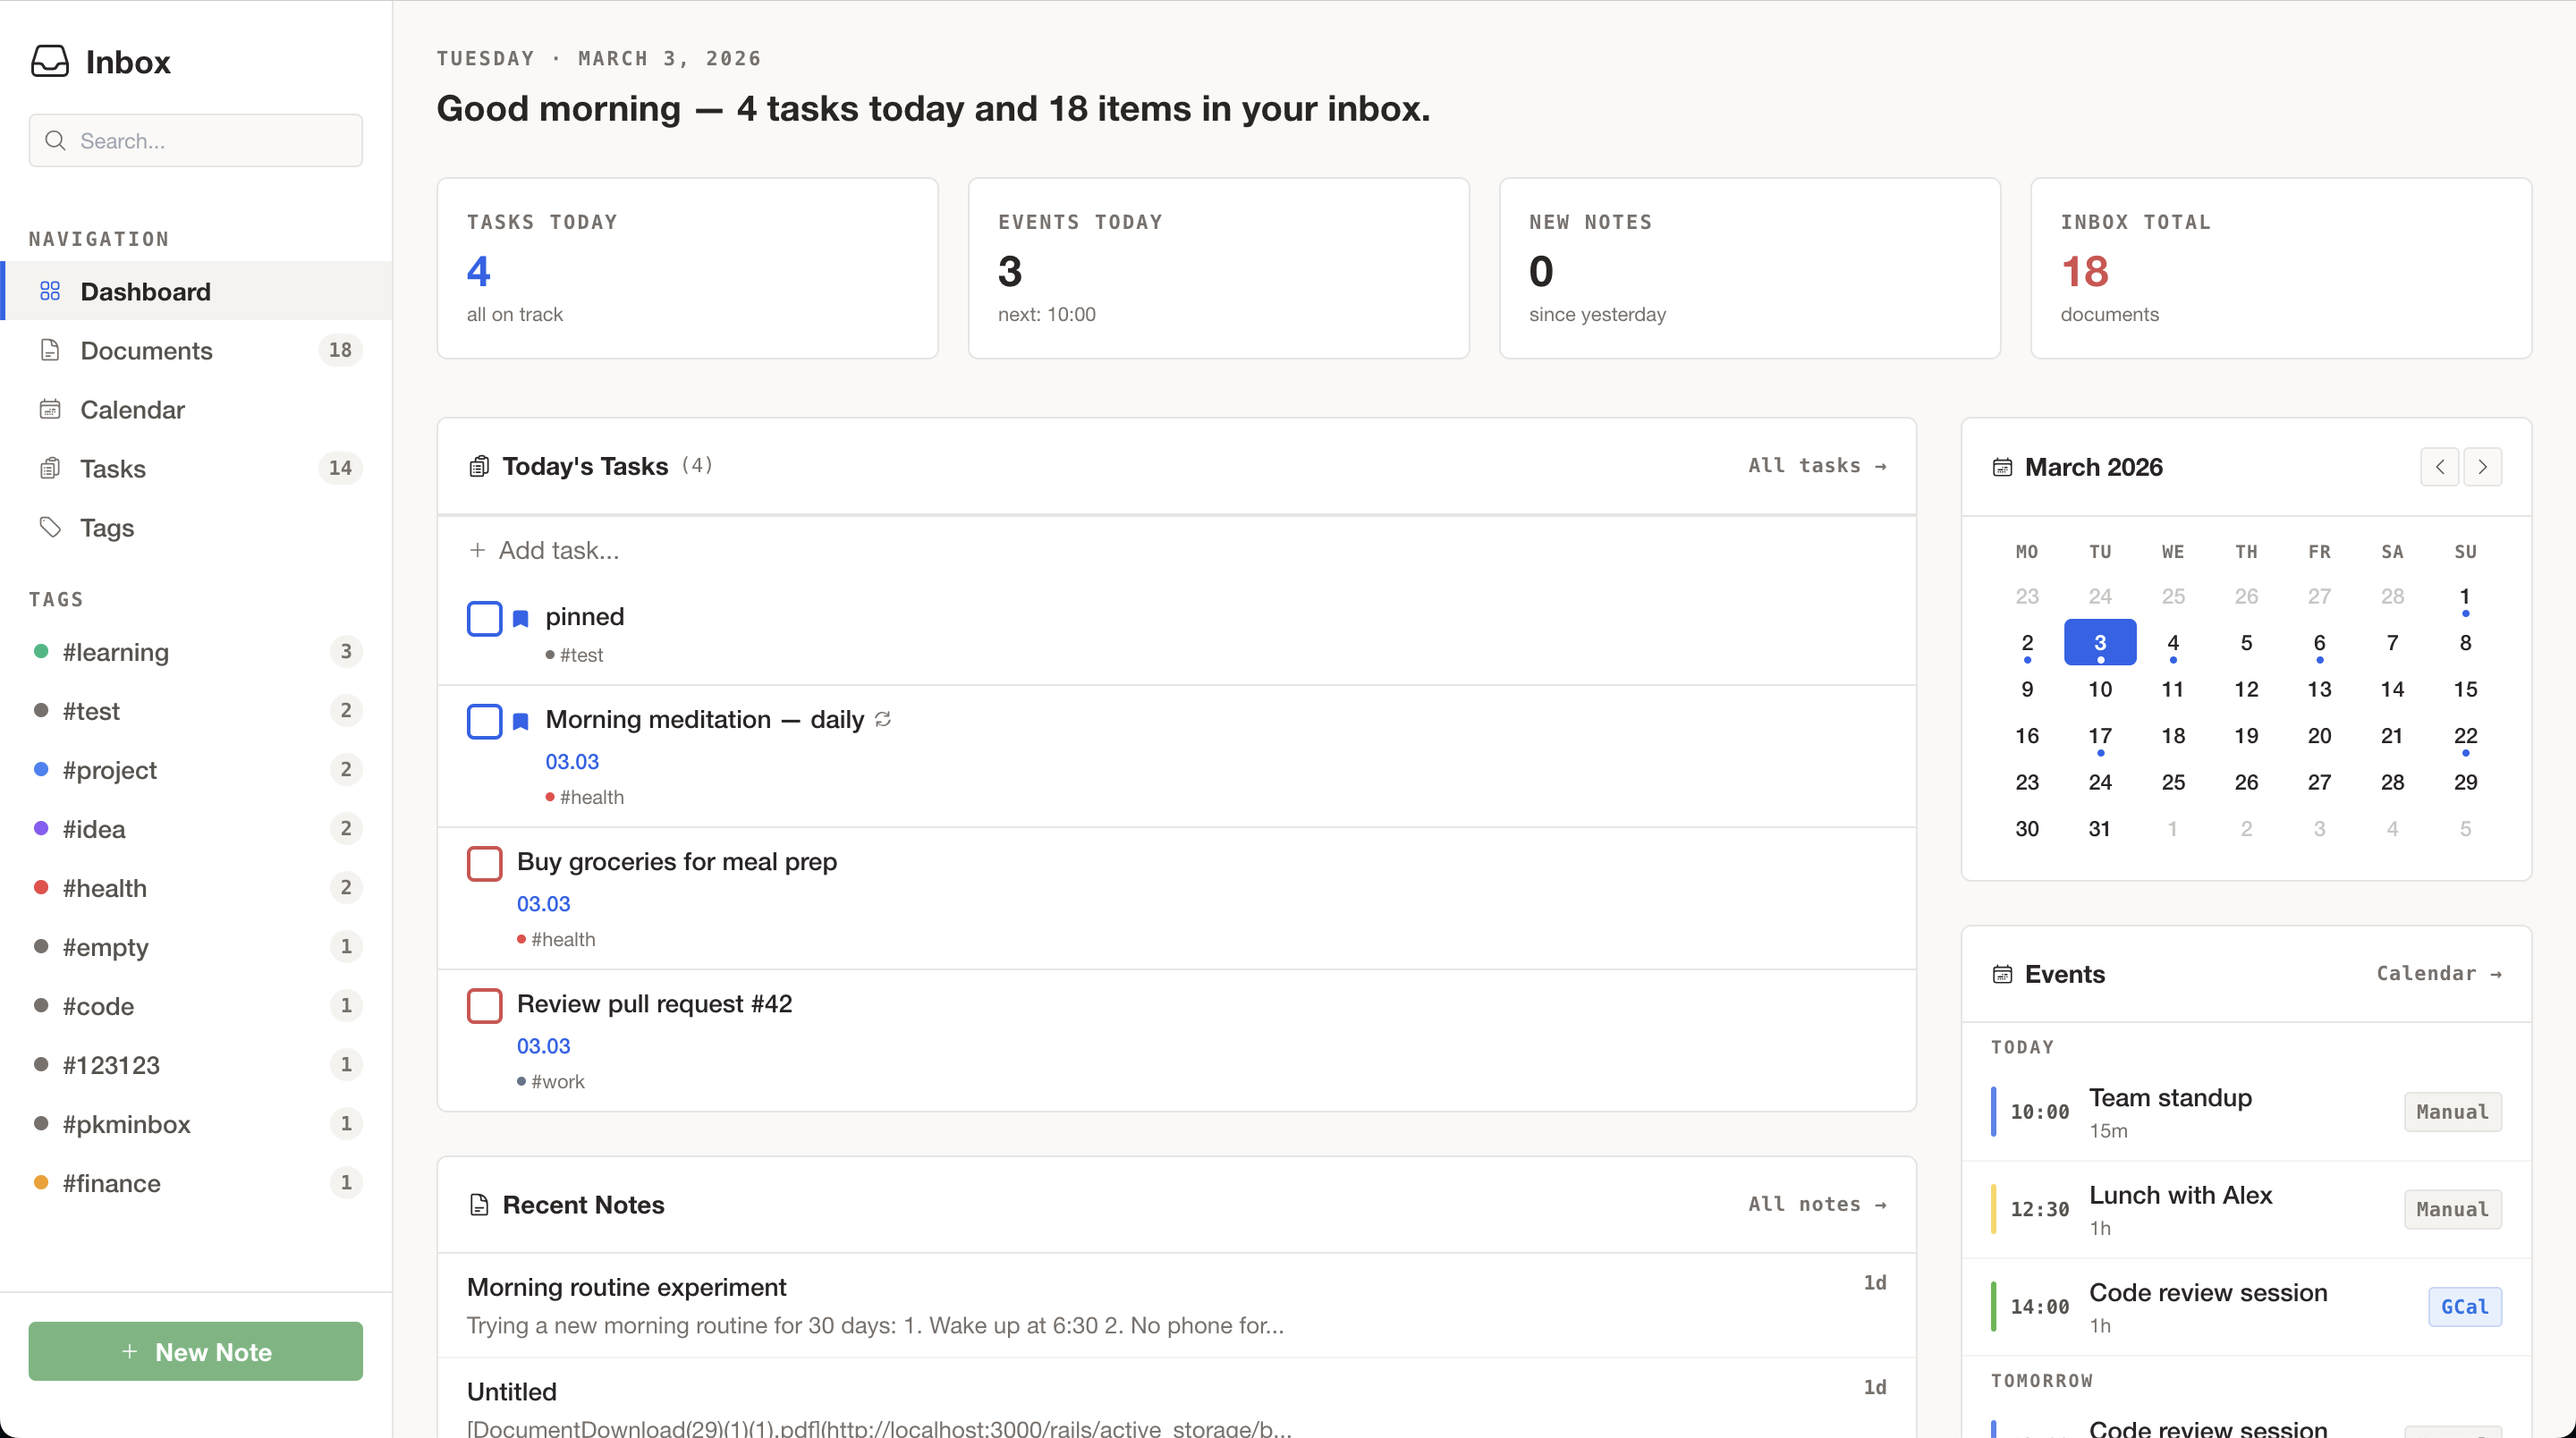
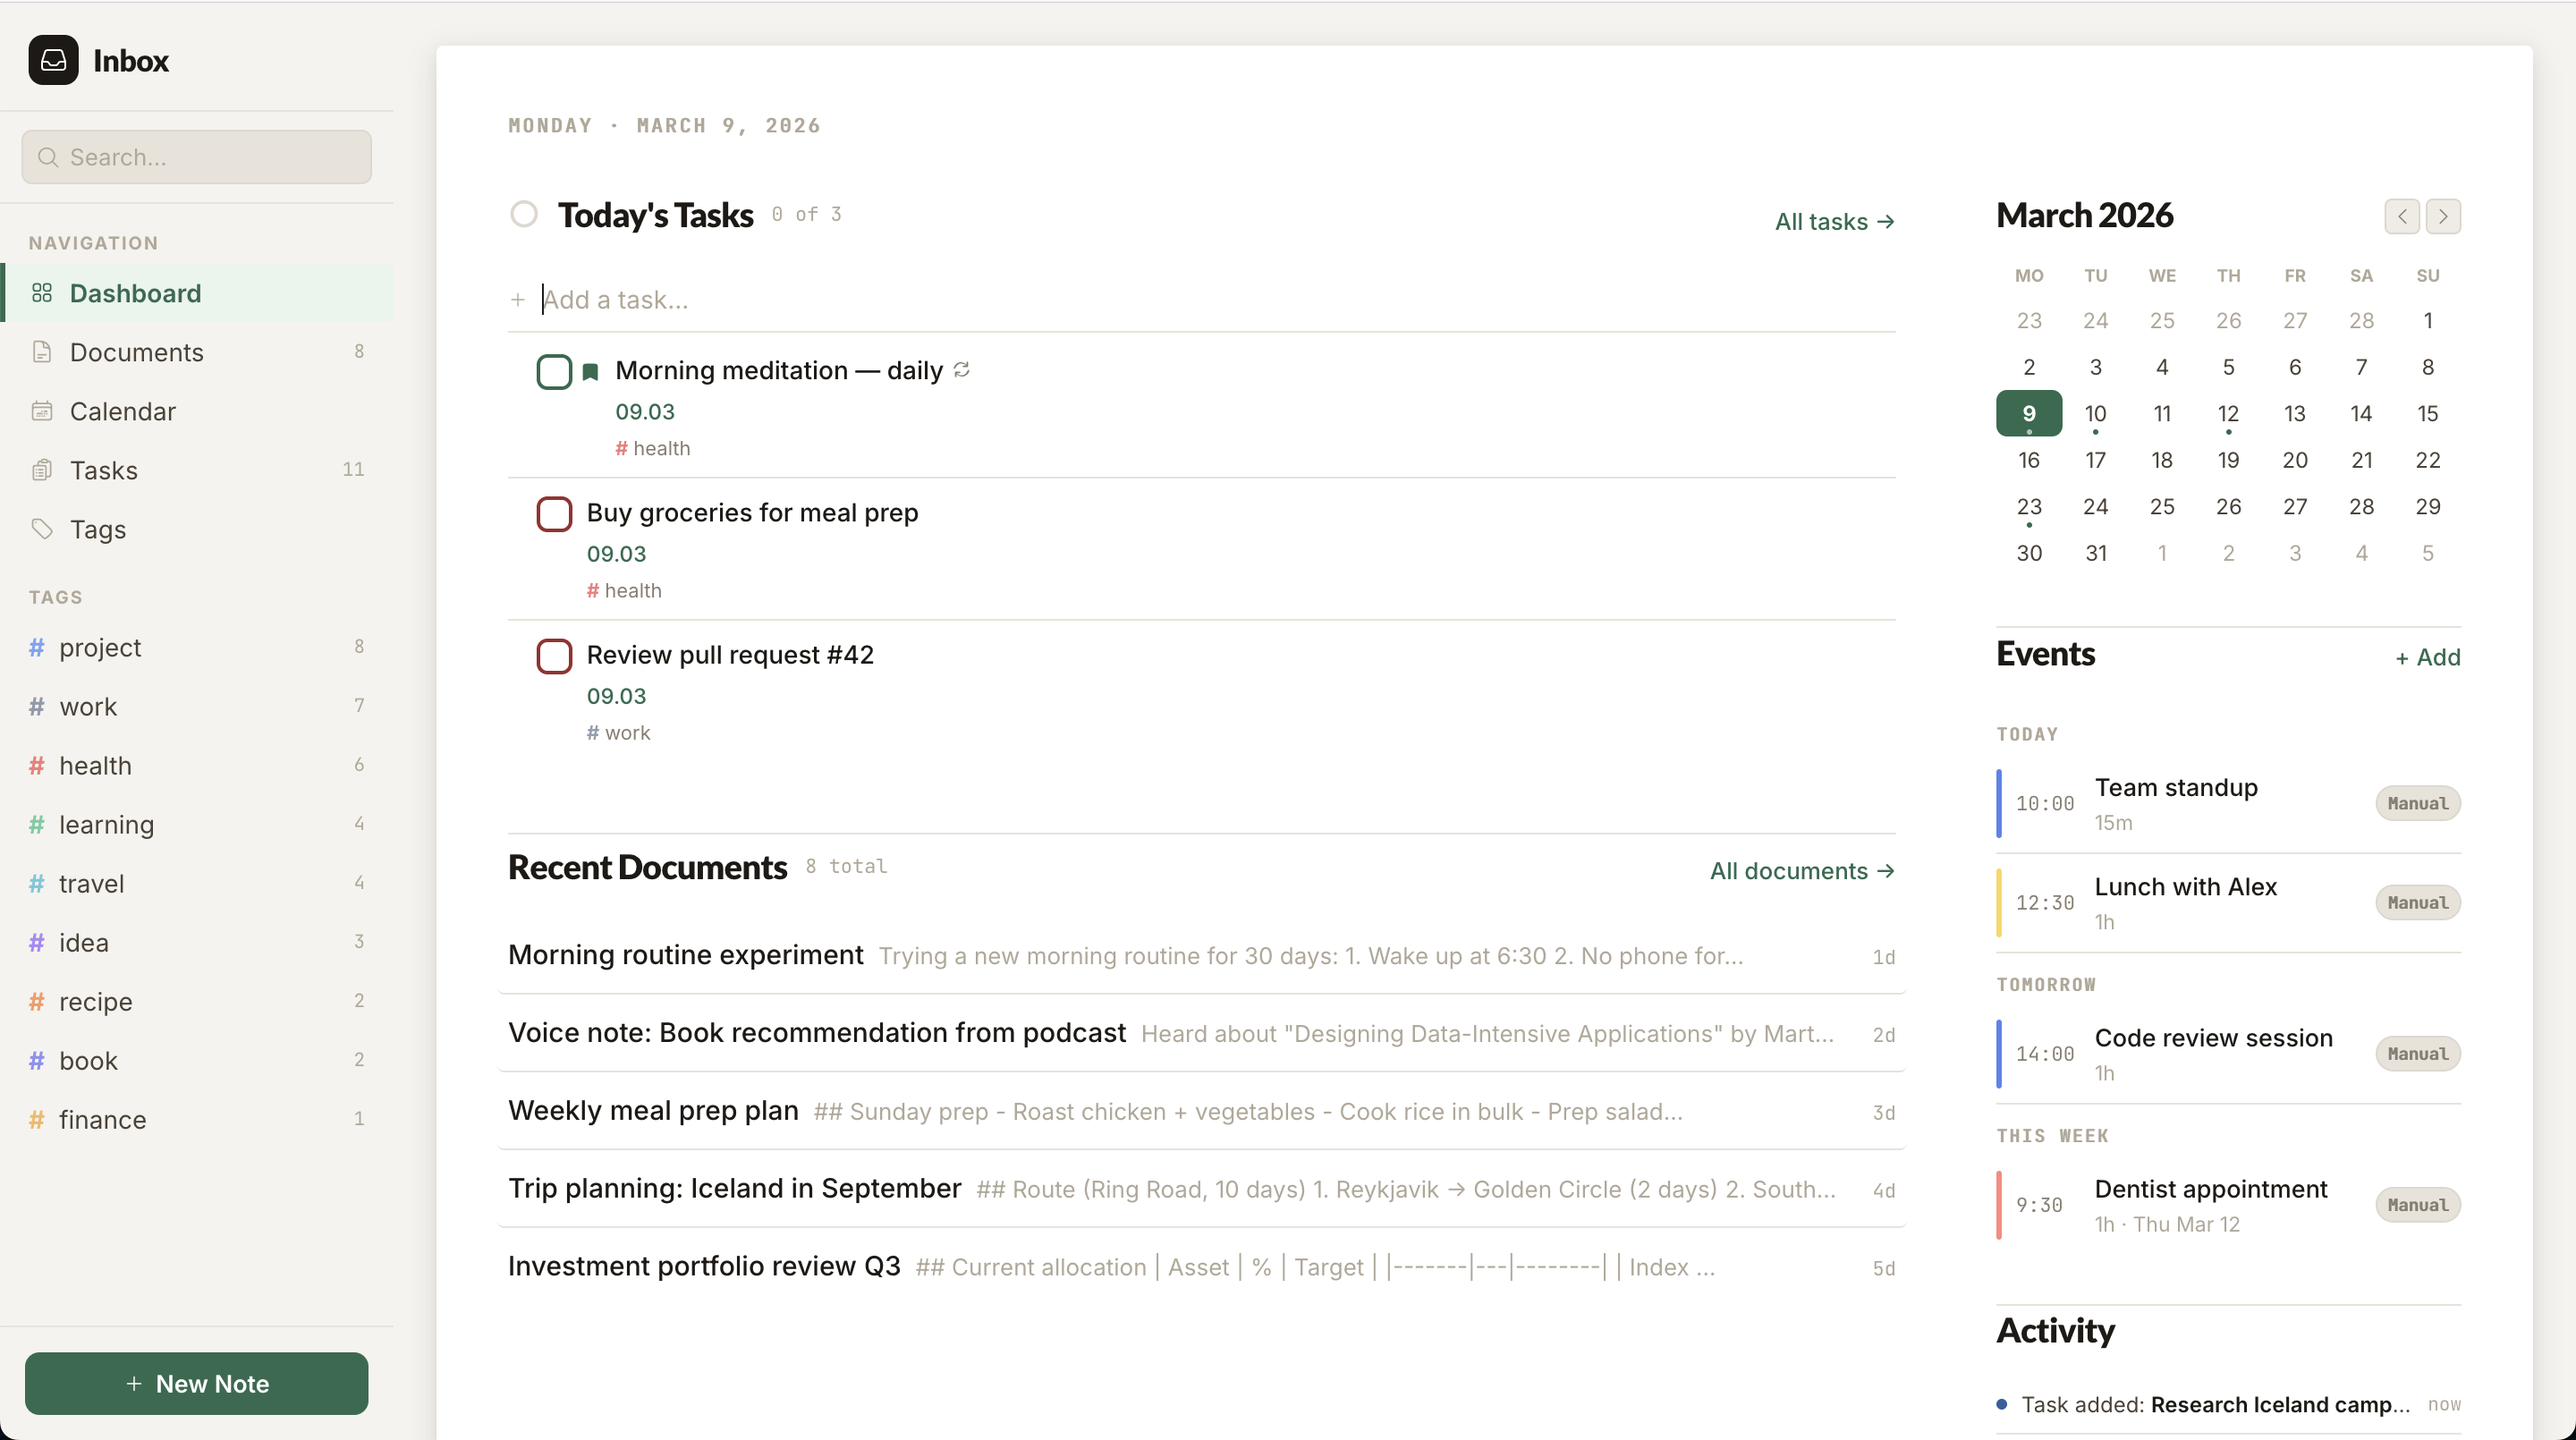
Upd screens

diff --git a/db/seeds.rb b/db/seeds.rb
@@ -98,36 +98,39 @@ documents_data = [
 
 documents_data.each do |attrs|
   tag_names = attrs.delete(:tags)
-  doc = Document.find_or_create_by!(title: attrs[:title]) do |d|
-    d.assign_attributes(attrs.except(:tags))
-  end
+  content = attrs.delete(:content)
+  doc = Document.find_or_initialize_by(title: attrs[:title])
+  doc.assign_attributes(attrs)
+  doc.save!
+
   tag_names&.each do |name|
     doc.tags << tags[name] unless doc.tags.include?(tags[name])
   end
 
-  # Create a text block with the content
-  if doc.blocks.empty? && doc.content.present?
-    doc.blocks.create!(
-      block_type: "text",
-      content: { "text" => doc.content }.to_json,
-      position: 0
-    )
+  # Create or update text block with the content
+  if content.present?
+    text_block = doc.blocks.find_or_initialize_by(block_type: "text")
+    text_block.update!(content: { "text" => content }.to_json, position: 0)
   end
 end
 puts "  Documents: #{Document.count}"
 
 # ── Tasks ───────────────────────────────────────────────────────────────────
 tasks_data = [
-  { title: "Buy groceries for meal prep",     due_date: Date.current,             priority: "high",   tags: %w[health] },
-  { title: "Review pull request #42",         due_date: Date.current,             priority: "high",   tags: %w[work] },
+  { title: "Buy groceries for meal prep",     due_date: Date.current,             priority: "high",   tags: %w[health],
+    description: "- [ ] Chicken thighs (1 kg)\n- [ ] Sweet potatoes\n- [ ] Broccoli, spinach\n- [ ] Greek yogurt\n- [x] Rolled oats\n- [x] Mixed berries" },
+  { title: "Review pull request #42",         due_date: Date.current,             priority: "high",   tags: %w[work],
+    description: "Check the **auth refactor** branch.\n\n- [ ] Code review\n- [ ] Run tests\n- [ ] Approve or request changes" },
   { title: "Book dentist appointment",        due_date: 3.days.from_now.to_date,  priority: "mid",    tags: %w[health] },
-  { title: "Read DDIA chapter 5",             due_date: 5.days.from_now.to_date,  priority: "mid",    tags: %w[book learning] },
+  { title: "Read DDIA chapter 5",             due_date: 5.days.from_now.to_date,  priority: "mid",    tags: %w[book learning],
+    description: "Chapter 5: *Replication*. Focus on leader-based replication and conflict resolution." },
   { title: "Backup Raspberry Pi SD card",     due_date: 7.days.from_now.to_date,  priority: "low",    tags: %w[project] },
   { title: "Send birthday card to Mom",       due_date: Date.current + 10,        priority: "high",   tags: [] },
   { title: "Research Iceland campervan rentals", due_date: 14.days.from_now.to_date, priority: "mid", tags: %w[travel] },
   { title: "Update resume",                   due_date: nil,                       priority: "low",    tags: %w[work] },
   { title: "Try sourdough bread recipe",      due_date: nil,                       priority: "low",    tags: %w[recipe idea] },
-  { title: "Set up automated backups",        due_date: 2.days.from_now.to_date,  priority: "mid",    tags: %w[project] },
+  { title: "Set up automated backups",        due_date: 2.days.from_now.to_date,  priority: "mid",    tags: %w[project],
+    description: "Use `rsync` to backup to USB drive.\n\n```bash\nrsync -avz /data/ /mnt/backup/\n```" },
   { title: "Morning meditation — daily",      due_date: Date.current,             priority: "pinned", tags: %w[health], recurrence_rule: "daily" },
   # Completed tasks
   { title: "Set up CI pipeline",              due_date: 3.days.ago.to_date,       priority: "high",   tags: %w[project work], completed: true, completed_at: 2.days.ago },
@@ -136,39 +139,40 @@ tasks_data = [
 
 tasks_data.each do |attrs|
   tag_names = attrs.delete(:tags)
-  Task.find_or_create_by!(title: attrs[:title]) do |t|
-    t.assign_attributes(attrs)
-  end.tap do |task|
-    tag_names&.each do |name|
-      task.tags << tags[name] unless task.tags.include?(tags[name])
-    end
+  task = Task.find_or_initialize_by(title: attrs[:title])
+  task.assign_attributes(attrs)
+  task.save!
+  tag_names&.each do |name|
+    task.tags << tags[name] unless task.tags.include?(tags[name])
   end
 end
 puts "  Tasks: #{Task.count} (#{Task.active.count} active, #{Task.completed.count} completed)"
 
 # ── Calendar Events ─────────────────────────────────────────────────────────
 events_data = [
-  { title: "Team standup",          starts_at: Time.current.change(hour: 10, min: 0),  ends_at: Time.current.change(hour: 10, min: 15), color: "9",  tags: %w[work] },
+  { title: "Team standup",          starts_at: Time.current.change(hour: 10, min: 0),  ends_at: Time.current.change(hour: 10, min: 15), color: "9",  tags: %w[work],
+    description: "Daily sync with the team.\n\n- What I did yesterday\n- What I'm doing today\n- Blockers" },
   { title: "Lunch with Alex",       starts_at: Time.current.change(hour: 12, min: 30), ends_at: Time.current.change(hour: 13, min: 30), color: "5",  tags: [] },
-  { title: "Code review session",   starts_at: (Date.current + 1).to_time.change(hour: 14),      ends_at: (Date.current + 1).to_time.change(hour: 15),     color: "9",  tags: %w[work project] },
+  { title: "Code review session",   starts_at: (Date.current + 1).to_time.change(hour: 14),      ends_at: (Date.current + 1).to_time.change(hour: 15),     color: "9",  tags: %w[work project],
+    description: "Review the **auth refactor** PR.\n\nFocus on:\n- [ ] Security implications\n- [ ] Test coverage\n- [ ] Performance" },
   { title: "Dentist appointment",   starts_at: (Date.current + 3).to_time.change(hour: 9, min: 30), ends_at: (Date.current + 3).to_time.change(hour: 10, min: 30), color: "4",  tags: %w[health] },
-  { title: "Flight to Reykjavik",   starts_at: (Date.current + 60).to_time.change(hour: 7),      ends_at: (Date.current + 60).to_time.change(hour: 12),     color: "7",  all_day: false, tags: %w[travel] },
+  { title: "Flight to Reykjavik",   starts_at: (Date.current + 60).to_time.change(hour: 7),      ends_at: (Date.current + 60).to_time.change(hour: 12),     color: "7",  all_day: false, tags: %w[travel],
+    description: "Flight **KEF-123**. Terminal 2.\n\nDon't forget:\n- [ ] Passport\n- [ ] Travel adapter\n- [ ] Warm jacket" },
   { title: "Iceland trip",          starts_at: (Date.current + 60).to_time,                       ends_at: (Date.current + 70).to_time,                      color: "2",  all_day: true, tags: %w[travel] },
   { title: "Project deadline",      starts_at: (Date.current + 14).to_time.change(hour: 17),     ends_at: (Date.current + 14).to_time.change(hour: 18),    color: "11", tags: %w[work project] }
 ]
 
 events_data.each do |attrs|
   tag_names = attrs.delete(:tags)
-  CalendarEvent.find_or_create_by!(title: attrs[:title], starts_at: attrs[:starts_at]) do |e|
-    e.assign_attributes(attrs.merge(
-      source: "manual",
-      status: "confirmed",
-      google_event_id: nil
-    ))
-  end.tap do |event|
-    tag_names&.each do |name|
-      event.tags << tags[name] unless event.tags.include?(tags[name])
-    end
+  event = CalendarEvent.find_or_initialize_by(title: attrs[:title])
+  event.assign_attributes(attrs.merge(
+    source: "manual",
+    status: "confirmed",
+    google_event_id: nil
+  ))
+  event.save!
+  tag_names&.each do |name|
+    event.tags << tags[name] unless event.tags.include?(tags[name])
   end
 end
 puts "  Calendar events: #{CalendarEvent.count}"
